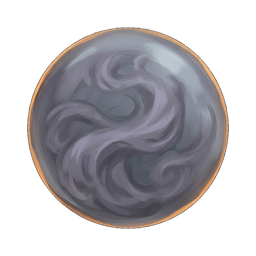
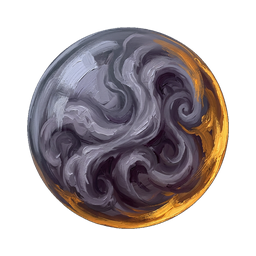
Push the style closer to the goblin hand, rebuild previews in the pack layout
- 8 masters repainted with the goblin hand as the sole technique reference:
  thicker impasto brushwork, denser saturated colour, stronger warm rim light
- icons now get an art-directed tile: soft glow behind the subject plus a
  contact shadow under it, so they read as game icons rather than cut-outs
- previews rebuilt the A-ravlik way: pack-sheet.png with a big title,
  '11 icons / d100 (PHB) / 256x256 pixels size' line, a 3-icon demo row and a
  dense rounded-tile grid with a name index; spec-sheet.png keeps the
  per-item labels and description-check statuses
- style rules locked machine-readably in data/trinkets.json -> style
- README: locked style rules and the pack-layout checklist

diff --git a/index.html b/index.html
@@ -29,13 +29,14 @@
 </head>
 <body>
   <h1>D&amp;D Trinkets — иконки 256×256</h1>
-  <p class="sub">Коллекция в едином стиле «ручная живопись»: 11 безделушек из таблицы d100.
-  Названия и описания — официальные: английский текст из Player's Handbook (Wizards of the Coast),
+  <p class="sub">Коллекция в закреплённом стиле «ручная живопись»: 11 безделушек из таблицы d100.
+  Эталон стиля — 01 «Мумифицированная рука гоблина» и 44 «Механическая канарейка в гномьей лампе».
+  Названия и описания официальные: английский текст из Player's Handbook (Wizards of the Coast),
   русский — из перевода Hobby Games. Картинка каждого предмета сверена с описанием
   (пометка «сверено, картинка поправлена» = на иконке убраны детали, которых в описании нет).</p>
-  <p class="sub small">Файлы: <code>icons/painted/&lt;id&gt;-&lt;slug&gt;.png</code> — фон коллекции;
-  <code>icons/painted/transparent/</code> — прозрачный фон; <code>icons/painted/metadata.csv</code> — таблица описаний;
-  <code>data/trinkets.json</code> — источник данных.</p>
+  <p class="sub small">Файлы: <code>icons/painted/&lt;id&gt;-&lt;slug&gt;.png</code> — иконка для интерфейса;
+  <code>icons/painted/transparent/</code> — предмет без фона; <code>icons/painted/metadata.csv</code> — таблица описаний;
+  <code>data/trinkets.json</code> — источник данных; <code>preview/pack-sheet.png</code> — страница пака.</p>
   <div class="grid">
       <figure class="card">
         <div class="preview">

diff --git a/scripts/build_icons.py b/scripts/build_icons.py
@@ -2,18 +2,22 @@
 """
 D&D Trinkets — коллекция иконок 256x256 в стиле «ручная живопись».
 
-Данные о предметах берутся из data/trinkets.json (официальные описания PHB:
+Данные о предметах — data/trinkets.json (официальные описания PHB:
 английский — Wizards of the Coast, русский — перевод Hobby Games, стр. 159).
 
 Пайплайн:
     masters/painted/<id>-<slug>.png   исходники 1024x1024
         → вырезаем предмет из плоского фона
         → масштабируем и центрируем на холсте 256x256
-    icons/painted/<id>-<slug>.png             готовая иконка (фон #28323A)
-    icons/painted/transparent/<id>-<slug>.png иконка с прозрачным фоном
-    icons/painted/metadata.csv                таблица для импорта в движок/таблицу
+        → собираем «плитку»: мягкая подсветка за предметом + тень под ним
+    icons/painted/<id>-<slug>.png             иконка для интерфейса
+    icons/painted/transparent/<id>-<slug>.png предмет без фона (для движка)
+    icons/painted/metadata.csv                таблица описаний для импорта
 
-Плюс превью в preview/ (контактный лист в духе паков a-ravlik) и галерея index.html.
+Превью:
+    preview/pack-sheet.png   страница пака (заголовок + демо-ряд + плотная сетка)
+    preview/spec-sheet.png   контактный лист с подписями и статусами сверки
+    preview/icon-sizes.png   читаемость в 256/128/64/32 px
 
 Запуск:  python3 scripts/build_icons.py
 """
@@ -25,12 +29,13 @@ import json
 from pathlib import Path
 
 import numpy as np
-from PIL import Image, ImageDraw, ImageFilter, ImageFont
+from PIL import Image, ImageChops, ImageDraw, ImageFilter, ImageFont
 from scipy import ndimage
 
 ROOT = Path(__file__).resolve().parents[1]
 DATA = json.loads((ROOT / "data" / "trinkets.json").read_text(encoding="utf-8"))
 ITEMS: list[dict] = DATA["items"]
+STYLE = DATA["style"]
 
 MASTERS = ROOT / "masters" / "painted"
 ICONS = ROOT / "icons" / "painted"
@@ -40,14 +45,19 @@ CANVAS: int = DATA["icons"]["size"]                 # 256
 OBJECT_BOX: int = DATA["icons"]["object_box"]       # 202 (~79% кадра)
 BG: tuple[int, int, int] = tuple(
     int(DATA["icons"]["bg"].lstrip("#")[i:i + 2], 16) for i in (0, 2, 4))
-THR = 0.035        # допуск «это фон» при вырезании
-FEATHER = 0.6      # сглаживание края маски
+THR = 0.035         # допуск «это фон» при вырезании
+FEATHER = 0.6       # сглаживание края маски
 
-MARK_STYLE = {      # цвет пометки в CSV и галерее
-    "ok": "verified",
-    "fixed": "fixed",
-    "todo": "needs-review",
-}
+GLOW_GAIN = 1.14    # насколько светлее фон за предметом
+GLOW_FALLOFF = 1.7  # насколько быстро гаснет подсветка к краям
+SHADOW_ALPHA = 0.42 # плотность тени под предметом
+SHADOW_BLUR = 9
+SHADOW_DROP = 9
+TILE_RADIUS = 12    # скругление плиток в превью
+
+STATUS_COLOUR = {"ok": (110, 190, 130), "fixed": (230, 180, 90), "todo": (220, 110, 110)}
+STATUS_RU = {"ok": "сверено с описанием", "fixed": "картинка поправлена по описанию",
+             "todo": "требует сверки"}
 
 
 def icon_name(item: dict) -> str:
@@ -60,7 +70,6 @@ def icon_path(item: dict) -> Path:
 
 # ------------------------------------------------------------- вырезание ---
 def background_colour(arr: np.ndarray) -> np.ndarray:
-    """Медианный цвет рамки изображения = плоский фон генерации."""
     ring = np.concatenate([
         arr[0:4, :, :3].reshape(-1, 3), arr[-4:, :, :3].reshape(-1, 3),
         arr[:, 0:4, :3].reshape(-1, 3), arr[:, -4:, :3].reshape(-1, 3),
@@ -69,7 +78,6 @@ def background_colour(arr: np.ndarray) -> np.ndarray:
 
 
 def largest_component(mask: np.ndarray) -> np.ndarray:
-    """Только самый крупный объект: мягкая тень под предметом не попадает в маску."""
     labels, count = ndimage.label(mask)
     if not count:
         return mask
@@ -80,8 +88,7 @@ def largest_component(mask: np.ndarray) -> np.ndarray:
 def cut_out(img: Image.Image, thr: float, feather: float) -> Image.Image:
     img = img.convert("RGBA")
     arr = np.asarray(img).astype(np.int16)
-    bg = background_colour(arr)
-    dist = np.abs(arr[:, :, :3] - bg).sum(axis=2) / 3.0
+    dist = np.abs(arr[:, :, :3] - background_colour(arr)).sum(axis=2) / 3.0
 
     mask = ndimage.binary_fill_holes(largest_component(dist > thr * 255))
     alpha = Image.fromarray(np.where(mask, 255, 0).astype(np.uint8), "L")
@@ -103,16 +110,41 @@ def scale_object(img: Image.Image, box: int = OBJECT_BOX) -> Image.Image:
     return img.resize((max(1, round(img.width * k)), max(1, round(img.height * k))), Image.LANCZOS)
 
 
-def compose(img: Image.Image, bg: tuple[int, int, int] | None) -> Image.Image:
-    canvas = Image.new("RGBA", (CANVAS, CANVAS), bg + (255,) if bg else (0, 0, 0, 0))
-    canvas.alpha_composite(img, ((CANVAS - img.width) // 2, (CANVAS - img.height) // 2))
+# --------------------------------------------------------- фон и плитка ----
+def backdrop(size: int, bg: tuple[int, int, int] = BG) -> Image.Image:
+    """Фон плитки: мягкая подсветка в центре, затемнение к краям."""
+    y, x = np.mgrid[0:size, 0:size]
+    c = (size - 1) / 2
+    r = np.sqrt(((x - c) / c) ** 2 + ((y - c) / c) ** 2)
+    k = np.clip(GLOW_GAIN - (GLOW_GAIN - 0.74) * (r / 1.15) ** GLOW_FALLOFF, 0.74, GLOW_GAIN)
+    base = np.array(bg, dtype=np.float32)[None, None, :] * k[:, :, None]
+    return Image.fromarray(np.clip(base, 0, 255).astype(np.uint8), "RGB")
+
+
+def compose(img: Image.Image, size: int = CANVAS, bg: tuple[int, int, int] | None = BG,
+            shadow: bool = True) -> Image.Image:
+    """Собрать иконку: подсвеченный фон, тень под предметом, сам предмет."""
+    canvas = Image.new("RGBA", (size, size), (0, 0, 0, 0))
+    pos = ((size - img.width) // 2, (size - img.height) // 2)
+    if bg:
+        base = backdrop(size, bg)
+        if shadow:
+            # силуэт предмета целиком на холсте → размытие и сдвиг вниз
+            silhouette = Image.new("L", (size, size), 0)
+            silhouette.paste(img.getchannel("A"), pos)
+            soft = silhouette.filter(ImageFilter.GaussianBlur(SHADOW_BLUR))
+            soft = ImageChops.offset(soft, 0, SHADOW_DROP)
+            dark = np.asarray(base, np.float32) * (1 - SHADOW_ALPHA * np.asarray(soft, np.float32)[:, :, None] / 255)
+            base = Image.fromarray(np.clip(dark, 0, 255).astype(np.uint8), "RGB")
+        canvas.paste(base, (0, 0))
+    canvas.alpha_composite(img, pos)
     return canvas
 
 
 def make_icon(master: Image.Image, item: dict) -> tuple[Image.Image, Image.Image]:
-    obj = cut_out(master, item.get("thr", THR), item.get("feather", FEATHER))
-    obj = scale_object(trim(obj), item.get("box", OBJECT_BOX))
-    return compose(obj, BG), compose(obj, None)
+    obj = trim(cut_out(master, item.get("thr", THR), item.get("feather", FEATHER)))
+    obj = scale_object(obj, item.get("box", OBJECT_BOX))
+    return compose(obj, CANVAS, BG, shadow=True), compose(obj, CANVAS, None, shadow=False)
 
 
 # --------------------------------------------------------------- превью ----
@@ -122,7 +154,7 @@ def font(size: int, bold: bool = False) -> ImageFont.FreeTypeFont:
     return ImageFont.truetype(str(path), size) if path.exists() else ImageFont.load_default()
 
 
-def wrap(d: ImageDraw.ImageDraw, text: str, f, width: int, max_lines: int = 2) -> list[str]:
+def wrap(d: ImageDraw.ImageDraw, text: str, f, width: int, max_lines: int = 3) -> list[str]:
     lines, line = [], ""
     for word in text.split():
         probe = f"{line} {word}".strip()
@@ -136,84 +168,132 @@ def wrap(d: ImageDraw.ImageDraw, text: str, f, width: int, max_lines: int = 2) -
     return lines[:max_lines]
 
 
-STATUS_COLOUR = {"ok": (110, 190, 130), "fixed": (230, 180, 90), "todo": (220, 110, 110)}
-STATUS_RU = {"ok": "сверено с описанием", "fixed": "картинка поправлена по описанию",
-             "todo": "требует сверки"}
+def rounded(icon: Image.Image, radius: int = TILE_RADIUS) -> Image.Image:
+    """Скруглить плитку и добавить тонкую внутреннюю рамку."""
+    s = icon.size[0]
+    r = max(2, round(radius * s / CANVAS))
+    mask = Image.new("L", (s * 4, s * 4), 0)
+    ImageDraw.Draw(mask).rounded_rectangle((0, 0, s * 4 - 1, s * 4 - 1), radius=r * 4, fill=255)
+    out = icon.copy()
+    out.putalpha(mask.resize((s, s), Image.LANCZOS))
+    ImageDraw.Draw(out).rounded_rectangle((0, 0, s - 1, s - 1), radius=r, outline=(255, 255, 255, 26), width=1)
+    return out
 
 
-def header(d: ImageDraw.ImageDraw, pad: int, extra: str = "", legend_y: int | None = None) -> None:
-    d.text((pad, pad), "D&D TRINKETS — ICONS", font=font(30, True), fill=(245, 245, 247))
-    d.text((pad, pad + 42), f"{len(ITEMS)} trinkets  ·  d100  ·  {CANVAS}x{CANVAS} PNG  ·  "
-                           f"transparent + backup  ·  {DATA['source']['ru']}",
-           font=font(15), fill=(150, 156, 168))
-    if extra:
-        d.text((pad, pad + 64), extra, font=font(15), fill=(150, 156, 168))
-    if legend_y is not None:
-        x = pad
-        for key, colour in STATUS_COLOUR.items():
-            d.ellipse((x, legend_y + 4, x + 9, legend_y + 13), fill=colour)
-            d.text((x + 15, legend_y), STATUS_RU[key], font=font(13), fill=(150, 156, 168))
-            x += 30 + int(d.textlength(STATUS_RU[key], font=font(13)))
+def pack_sheet(path: Path) -> None:
+    """Страница пака: заголовок, демо-ряд, плотная сетка плиток без подписей."""
+    W = 1200
+    pad = 28
+    cols, tile, gap = 9, 120, 8
+    demo_sizes = [224, 448, 224]
+    demo_items = ["44", "01", "02"]
+
+    grid_w = cols * tile + (cols - 1) * gap
+    demo_w = sum(demo_sizes) + 2 * 24
+    head_h, demo_h, foot_h = 148, max(demo_sizes) + 16, 74
+    rows = (len(ITEMS) + cols - 1) // cols
+    H = pad + head_h + demo_h + 22 + rows * tile + (rows - 1) * gap + foot_h + pad
+
+    img = Image.new("RGB", (W, H), (13, 14, 17))
+    d = ImageDraw.Draw(img)
+
+    d.text((pad, pad), "D&D TRINKETS — RPG ICONS", font=font(40, True), fill=(248, 248, 250))
+    d.text((pad, pad + 56), f"{len(ITEMS)} icons      d100 (PHB)      {CANVAS}x{CANVAS} pixels size",
+           font=font(19, True), fill=(206, 210, 218))
+    d.text((pad, pad + 86), f"transparent + backup  ·  {DATA['source']['ru']}", font=font(14), fill=(140, 146, 158))
+    d.text((pad, pad + 106), "стиль «ручная живопись»: эталон — "
+                             + ", ".join(f"{i}" for i in ("01 rука гоблина", "44 канарейка")),
+           font=font(14), fill=(140, 146, 158))
+
+    by_id = {i["id"]: i for i in ITEMS}
+    x = (W - demo_w) // 2
+    y = pad + head_h
+    for size, item_id in zip(demo_sizes, demo_items):
+        item = by_id[item_id]
+        icon = rounded(Image.open(icon_path(item)).convert("RGBA").resize((size, size), Image.LANCZOS))
+        img.paste(icon, (x, y + (max(demo_sizes) - size) // 2), icon)
+        x += size + 24
+
+    x0 = (W - grid_w) // 2
+    y = pad + head_h + demo_h + 22
+    for i, item in enumerate(ITEMS):
+        cx = x0 + (i % cols) * (tile + gap)
+        cy = y + (i // cols) * (tile + gap)
+        icon = rounded(Image.open(icon_path(item)).convert("RGBA").resize((tile, tile), Image.LANCZOS))
+        img.paste(icon, (cx, cy), icon)
+
+    fy = y + rows * tile + (rows - 1) * gap + 26
+    f_idx = font(13)
+    index = "   ".join(f"{i['d100']:02d} {i['ru']}" for i in ITEMS)
+    for n, line in enumerate(wrap(d, index, f_idx, W - pad * 2)):
+        d.text((x0, fy + n * 18), line, font=f_idx, fill=(150, 156, 168))
+
+    img.save(path)
 
 
-def grid(path: Path, cols: int = 5, scale: int = 1, head: int = 112, extra: str = "") -> None:
-    """Контактный лист: плитка с иконкой + подпись, как в превью паков иконок."""
-    tsize = frame = int(CANVAS * scale)
-    gap, pad = 18, 26
+def spec_sheet(path: Path, cols: int = 5, scale: int = 1) -> None:
+    """Контактный лист с подписями и статусами сверки."""
+    frame = int(CANVAS * scale)
+    gap, pad, head = 18, 26, 128
     f_name, f_meta = font(16, True), font(13)
     rows = (len(ITEMS) + cols - 1) // cols
     measure = ImageDraw.Draw(Image.new("RGB", (10, 10)))
-
     titles = [wrap(measure, f"{i['d100']:02d} · {i['ru']}", f_name, frame) for i in ITEMS]
     label = max(26 + 22 * len(t) for t in titles)
 
     w = pad * 2 + cols * frame + (cols - 1) * gap
-    h = pad * 2 + head + 30 + rows * (frame + label) + (rows - 1) * gap
-
+    h = pad * 2 + head + rows * (frame + label) + (rows - 1) * gap
     img = Image.new("RGB", (w, h), (16, 17, 20))
     d = ImageDraw.Draw(img)
-    header(d, pad, extra, legend_y=pad + 92)
+
+    d.text((pad, pad), "D&D TRINKETS — ICONS", font=font(30, True), fill=(245, 245, 247))
+    d.text((pad, pad + 42), f"{len(ITEMS)} trinkets · d100 · {CANVAS}x{CANVAS} PNG · transparent + backup · "
+                           f"{DATA['source']['ru']}", font=font(15), fill=(150, 156, 168))
+    d.text((pad, pad + 64), "под каждой иконкой — номер по d100 и официальное название из Книги игрока",
+           font=font(15), fill=(150, 156, 168))
+    lx = pad
+    for key, colour in STATUS_COLOUR.items():
+        d.ellipse((lx, pad + 96, lx + 9, pad + 105), fill=colour)
+        d.text((lx + 15, pad + 92), STATUS_RU[key], font=font(13), fill=(150, 156, 168))
+        lx += 30 + int(d.textlength(STATUS_RU[key], font=font(13)))
 
     for i, item in enumerate(ITEMS):
         x = pad + (i % cols) * (frame + gap)
-        y = pad + head + 30 + (i // cols) * (frame + label + gap)
-
+        y = pad + head + (i // cols) * (frame + label + gap)
         icon = Image.open(icon_path(item)).convert("RGBA")
         if scale != 1:
-            icon = icon.resize((tsize, tsize), Image.NEAREST)
+            icon = icon.resize((frame, frame), Image.NEAREST)
+        icon = rounded(icon)
         img.paste(icon, (x, y), icon)
-        d.rectangle((x, y, x + frame - 1, y + frame - 1), outline=(52, 56, 64))
 
         ly = y + frame + 8
         for line in titles[i]:
             d.text((x, ly), line, font=f_name, fill=(238, 238, 240))
             ly += 22
-
         status = item["icon_check"]["status"]
         d.ellipse((x, ly + 5, x + 9, ly + 14), fill=STATUS_COLOUR[status])
-        d.text((x + 15, ly), f"{item['en'][:34]}", font=f_meta, fill=(138, 144, 156))
+        d.text((x + 15, ly), item["en"][:34], font=f_meta, fill=(138, 144, 156))
 
     img.save(path)
 
 
-def hero(path: Path) -> None:
-    """Строка «бегунок»: одна иконка крупно + размерный ряд (256/128/64/32)."""
+def size_sheet(path: Path) -> None:
     sizes = [CANVAS, 128, 64, 32]
-    pad, gap, head = 26, 22, 96
-    w = pad * 2 + CANVAS + gap + sum(sizes) + gap * (len(sizes) - 1)
+    pad, gap, head = 26, 22, 128
+    w = pad * 2 + sum(sizes) + gap * (len(sizes) - 1)
     h = pad * 2 + head + CANVAS
-
     img = Image.new("RGB", (w, h), (16, 17, 20))
     d = ImageDraw.Draw(img)
-    header(d, pad, "читаемость в интерфейсе: одна и та же иконка в 256 / 128 / 64 / 32 px")
-
+    d.text((pad, pad), "D&D TRINKETS — ICONS", font=font(30, True), fill=(245, 245, 247))
+    d.text((pad, pad + 42), "читаемость в интерфейсе: одна и та же иконка в 256 / 128 / 64 / 32 px",
+           font=font(15), fill=(150, 156, 168))
     x = pad
     for size in sizes:
-        icon = Image.open(icon_path(ITEMS[0])).convert("RGBA").resize((size, size), Image.LANCZOS)
+        icon = rounded(Image.open(icon_path(ITEMS[0])).convert("RGBA").resize((size, size), Image.LANCZOS),
+                       radius=TILE_RADIUS * size / CANVAS)
         img.paste(icon, (x, pad + head + CANVAS - size), icon)
         d.text((x, pad + head + CANVAS + 4), f"{size}px", font=font(13), fill=(138, 144, 156))
         x += size + gap
-
     img.save(path)
 
 
@@ -266,13 +346,14 @@ def gallery(path: Path) -> None:
 </head>
 <body>
   <h1>D&amp;D Trinkets — иконки {CANVAS}×{CANVAS}</h1>
-  <p class="sub">Коллекция в едином стиле «ручная живопись»: {len(ITEMS)} безделушек из таблицы d100.
-  Названия и описания — официальные: английский текст из Player's Handbook (Wizards of the Coast),
+  <p class="sub">Коллекция в закреплённом стиле «ручная живопись»: {len(ITEMS)} безделушек из таблицы d100.
+  Эталон стиля — 01 «Мумифицированная рука гоблина» и 44 «Механическая канарейка в гномьей лампе».
+  Названия и описания официальные: английский текст из Player's Handbook (Wizards of the Coast),
   русский — из перевода Hobby Games. Картинка каждого предмета сверена с описанием
   (пометка «сверено, картинка поправлена» = на иконке убраны детали, которых в описании нет).</p>
-  <p class="sub small">Файлы: <code>icons/painted/&lt;id&gt;-&lt;slug&gt;.png</code> — фон коллекции;
-  <code>icons/painted/transparent/</code> — прозрачный фон; <code>icons/painted/metadata.csv</code> — таблица описаний;
-  <code>data/trinkets.json</code> — источник данных.</p>
+  <p class="sub small">Файлы: <code>icons/painted/&lt;id&gt;-&lt;slug&gt;.png</code> — иконка для интерфейса;
+  <code>icons/painted/transparent/</code> — предмет без фона; <code>icons/painted/metadata.csv</code> — таблица описаний;
+  <code>data/trinkets.json</code> — источник данных; <code>preview/pack-sheet.png</code> — страница пака.</p>
   <div class="grid">{''.join(cards)}
   </div>
 </body>
@@ -291,8 +372,7 @@ def metadata_csv(path: Path) -> None:
                 DATA["source"]["ru"],
                 f"icons/painted/{icon_name(item)}",
                 f"icons/painted/transparent/{icon_name(item)}",
-                MARK_STYLE[item["icon_check"]["status"]],
-                item["icon_check"]["note"],
+                item["icon_check"]["status"], item["icon_check"]["note"],
             ])
 
 
@@ -314,6 +394,7 @@ def main() -> None:
     metadata_csv(ICONS / "metadata.csv")
     (ROOT / "manifest.json").write_text(json.dumps({
         "source": DATA["source"],
+        "style": STYLE,
         "icons": DATA["icons"],
         "items": [{**i, "files": {
             "icon": f"icons/painted/{icon_name(i)}",
@@ -321,11 +402,9 @@ def main() -> None:
     }, ensure_ascii=False, indent=2) + "\n", encoding="utf-8")
 
     PREVIEW.mkdir(exist_ok=True)
-    grid(PREVIEW / "collection-sheet.png", cols=5,
-         extra="под каждой иконкой — номер по d100 и официальное название из Книги игрока")
-    grid(PREVIEW / "collection-sheet-2x.png", cols=4, scale=2,
-         extra="то же крупным планом, детали видно в натуральную величину")
-    hero(PREVIEW / "icon-sizes.png")
+    pack_sheet(PREVIEW / "pack-sheet.png")
+    spec_sheet(PREVIEW / "spec-sheet.png")
+    size_sheet(PREVIEW / "icon-sizes.png")
     gallery(ROOT / "index.html")
     print(f"done: {len(ITEMS)} icons")
 
